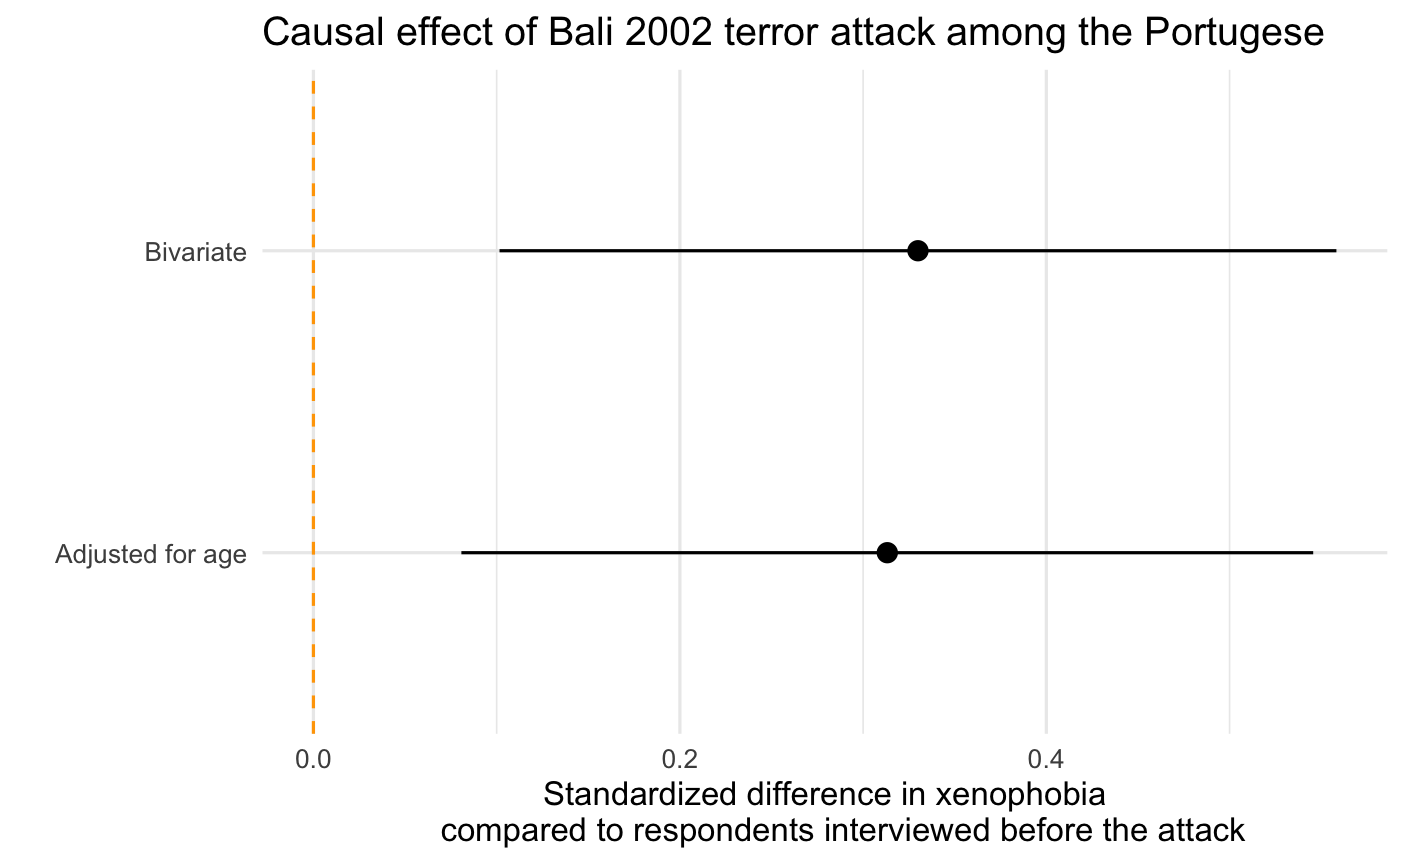
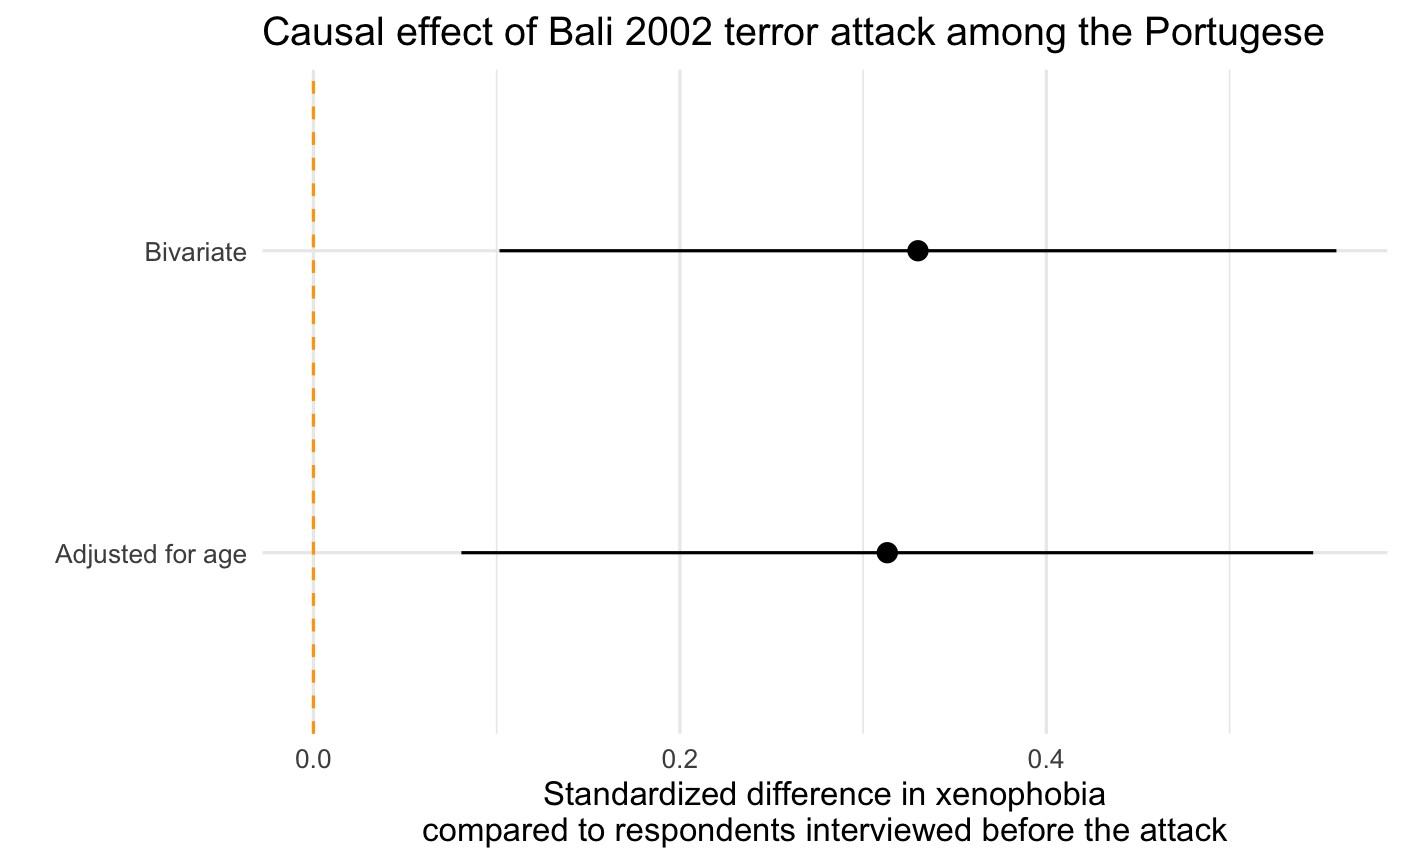
Updated Lecture 8

Changed region(s): [[0.3063, 0.9375, 0.8882, 1.0]]

diff --git a/static/Lectures/8-Multiple-OLS/8-Multiple-OLS.html b/static/Lectures/8-Multiple-OLS/8-Multiple-OLS.html
@@ -4,7 +4,7 @@
     <title>Multiple Regression &amp;    Fundamentals of Causal Inference</title>
     <meta charset="utf-8" />
     <meta name="author" content="Merlin Schaeffer  Department of Sociology" />
-    <meta name="date" content="2024-10-29" />
+    <meta name="date" content="2024-10-30" />
     <script src="libs/header-attrs/header-attrs.js"></script>
     <link href="libs/tile-view/tile-view.css" rel="stylesheet" />
     <script src="libs/tile-view/tile-view.js"></script>
@@ -29,7 +29,7 @@ class: center, middle, inverse, title-slide
 ### Merlin Schaeffer<br> Department of Sociology
 ]
 .date[
-### 2024-10-29
+### 2024-10-30
 ]
 
 ---
@@ -90,7 +90,8 @@ layout: true
 .center[versus]
 
 "[...] punishment often makes individuals more likely to commit crimes because of altered interactional structures, foreclosed legal opportunities and secondary deviance."
-&gt; -- .center[.backgrnote[*Source:* Sherman and Berk (1984)]]
+
+-- *Source:* Sherman and Berk (1984)
 
 .center[**Does punishment increase repeat domestic abuse?**]
 ]
@@ -164,13 +165,14 @@ layout: false
 ]
 .push-right[
 &lt;img src="8-Multiple-OLS_files/figure-html/DAG9-1.png" width="100%" style="display: block; margin: auto;" /&gt;
-]]
-
-**Reduced Form:** `\(\beta_{Z \rightarrow Y} = E[Y_{i}|Z_{i}=1]-E[Y_{i}|Z_{i}=0]; \text{call this }\rho.\)`
+]
+.font60[.]
+**Reduced Form (or ITT):** `\(\beta_{Z \rightarrow Y} = E[Y_{i}|Z_{i}=1]-E[Y_{i}|Z_{i}=0]; \text{call this }\rho.\)`
 
 **First Stage:** `\(\beta_{Z \rightarrow D} = E[D_{i}|Z_{i}=1]-E[D_{i}|Z_{i}=0]; \text{call this }\phi.\)`
 
 **IV Estimator of** `\(\lambda = \frac{\beta_{Z \rightarrow Y}}{\beta_{Z \rightarrow D}} = \frac{E[Y_{i}|Z_{i}=1]-E[Y_{i}|Z_{i}=0]}{E[D_{i}|Z_{i}=1]-E[D_{i}|Z_{i}=0]} = \frac{\rho}{\phi}.\)`
+]
 
 ---
 # IV .font60[to the rescue]
@@ -246,13 +248,15 @@ modelsummary(list("First stage" = first_stg),
 ]
 .push-right[
 &lt;img src="8-Multiple-OLS_files/figure-html/unnamed-chunk-7-1.png" width="100%" style="display: block; margin: auto;" /&gt;
-]]
+]
+.font60[.]
 
-**Reduced Form:** `\(\rho = 0.114\)` .backgrnote[According to Sherman and Berk (1984).]
+**Reduced Form (or ITT):** `\(\rho = 0.114\)` .backgrnote[According to Sherman and Berk (1984).]
 
-**First Stage:** `\(\phi = NA.\)`
+**First Stage:** `\(\phi = 0.786.\)`
 
-**IV Estimator of LATE:** `\(\lambda = \frac{\rho}{\phi} = \frac{E[Y_{i}|Z_{i}=1]-E[Y_{i}|Z_{i}=0]}{E[D_{i}|Z_{i}=1]-E[D_{i}|Z_{i}=0]} = \underline{\underline{NA}} \color{red}{|\text{Complier}_{i}=1}.\)`
+**IV Estimator of LATE:** `\(\lambda = \frac{\rho}{\phi} = \frac{E[Y_{i}|Z_{i}=1]-E[Y_{i}|Z_{i}=0]}{E[D_{i}|Z_{i}=1]-E[D_{i}|Z_{i}=0]} = \underline{\underline{0.145}} \color{red}{|\text{Complier}_{i}=1}.\)`
+]
 
 ---
 class: inverse middle center
@@ -305,7 +309,10 @@ layout: true
 .right-column[
 &lt;img src="./img/Joscha2.png" width="100%" style="display: block; margin: auto;" /&gt;
 .center[.backgrnote[*Source:* Legewie (2013)]]
-]
+
+.content-box-green[.center[
+What are the two key assumptions that ensure the comparability of treatment and control groups?
+]]]
 
 ---
 
@@ -411,12 +418,11 @@ toydat &lt;- tibble(
 toydat &lt;- toydat %&gt;% 
   mutate( # Day of interview: Age + random.
     int_day = (-0.1*age) + rnorm(n = 500, mean = 0, sd = 1),
-    bali = case_when( # Bali: After mean int_day (survey period).
-      int_day &lt; mean(int_day) ~ 0,
-      int_day &gt;= mean(int_day) ~ 1))
+    bali = case_when(int_day &lt; mean(int_day) ~ 0, # Not Bali: Before mean int_day
+      int_day &gt;= mean(int_day) ~ 1)) # Bali: After mean int_day.
 
 ols &lt;- lm_robust(bali ~ age, data = toydat)
-modelsummary(list("Day of Int." = ols), stars = TRUE,
+modelsummary(list("Day of Interview" = ols), stars = TRUE,
              gof_map = c("nobs", "r.squared"), output = "kableExtra")
 ```
 
@@ -424,7 +430,7 @@ modelsummary(list("Day of Int." = ols), stars = TRUE,
  &lt;thead&gt;
   &lt;tr&gt;
    &lt;th style="text-align:left;"&gt;   &lt;/th&gt;
-   &lt;th style="text-align:center;"&gt; &amp;amp;nbsp;Day of Int. &lt;/th&gt;
+   &lt;th style="text-align:center;"&gt; &amp;amp;nbsp;Day of Interview &lt;/th&gt;
   &lt;/tr&gt;
  &lt;/thead&gt;
 &lt;tbody&gt;
@@ -471,9 +477,8 @@ modelsummary(list("Day of Int." = ols), stars = TRUE,
 # I define: Xenophobia is a linear function of:
 # exposure to Bali, age, and a random part.
 toydat &lt;- toydat %&gt;%
-  mutate(
-*   xeno = (1 * bali) + (0.3 * age) +
-      rnorm(n = 500, mean = 0, sd = 1))
+* mutate(xeno = (1 * bali) + (0.3 * age) +
+        rnorm(n = 500, mean = 0, sd = 1))
 ```
 ]
 .push-right[
@@ -908,7 +913,7 @@ What is `e_bali`?
 
 .right-column[
 .center[
-**Step 3: Regress `\(e_{D}\)` on `\(e_{C}\)`.**
+**Step 3: Regress `\(e_{Y}\)` on `\(e_{D}\)`.**
 ]
 .push-left[
 .font70[
@@ -918,7 +923,8 @@ What is `e_bali`?
 ols_e &lt;- lm_robust(e_xeno ~ e_bali,
                     data = toydat)
 
-modelsummary(list("Resid. Xeno" = ols_e), 
+modelsummary(list(
+              "Resid. OLS" = ols_e), 
             stars = TRUE,
             gof_map = c("nobs", "r.squared"), 
             output = "kableExtra")
@@ -928,7 +934,7 @@ modelsummary(list("Resid. Xeno" = ols_e),
  &lt;thead&gt;
   &lt;tr&gt;
    &lt;th style="text-align:left;"&gt;   &lt;/th&gt;
-   &lt;th style="text-align:center;"&gt; &amp;amp;nbsp;Resid. Xeno &lt;/th&gt;
+   &lt;th style="text-align:center;"&gt; Resid. OLS &lt;/th&gt;
   &lt;/tr&gt;
  &lt;/thead&gt;
 &lt;tbody&gt;
@@ -1035,35 +1041,6 @@ class: clear
 
 - If **_observed_** confounders are imbalanced, *maybe more is broken than what we have observed?*
 ]]
-
----
-# Pre- versus post-treatment controls
-
-.center[Time of measurement helps to decide whether a variable is a confounder or a mechanism/mediator.&lt;br&gt; But generally, you can only rely on sound logical reasoning. .alert[Don't control for mechanisms/mediators.]]
-
-.push-left[.content-box-green[
-.center[**Pre-treatment**]
-&lt;img src="8-Multiple-OLS_files/figure-html/unnamed-chunk-35-1.png" width="40%" style="display: block; margin: auto;" /&gt;
-
-- *Potential confounders*: Variables that are **_causally prior to the treatment_**.
-]]
-
-.push-left[.content-box-red[
-.center[**Post-treatment**]
-&lt;img src="8-Multiple-OLS_files/figure-html/DAG_mediator-1.png" width="40%" style="display: block; margin: auto;" /&gt;
-- *Potential mechanisms/mediators*: Variables that are potentially **_a result of the treatment_**.
-]]
-
----
-# Group work
-
-.content-box-green[
-1. Download the "Sesame-variables.doc" file from Absalon. Recall that our outcome was "postlet", the randomized intervention was "encouraged", and the treatment of interest was "watched".
-
-2. Identify variables that should ideally be balanced, and if they are not, should be controlled for as pre-treatment confounders.
-
-3. Identify variables that we should definitely not control for because they are post-treatment mechanisms or even alternative measures of the outcome we are interested in.
-]
 
 ---
 # Back to Bali .font70[The Portuguese subsample]
@@ -1242,25 +1219,24 @@ modelsummary(list("Biv. OLS" = ols_pt_bi, "Mult. OLS" = ols_pt_mult), stars = TR
 .panel[.panel-name[R code]
 
 ``` r
-bind_rows(ols_pt_bi %&gt;% tidy(),
-          ols_pt_mult %&gt;% tidy(),
-          .id = "model") %&gt;%
-  filter(term == "treatAfter Bali") %&gt;%
-  mutate(model = case_when(
+bind_rows(ols_pt_bi %&gt;% tidy(),  # Combine the tidy output of two models 
+          ols_pt_mult %&gt;% tidy(),  # ...
+          .id = "model") %&gt;%  # Add an identifier for each model
+  filter(term == "treatAfter Bali") %&gt;%  # Select the row corresponding to the treatment effect
+  mutate(model = case_when(  # Change the model identifier to more informative labels
     model == 1 ~ "Bivariate",
     model == 2 ~ "Adjusted for age")) %&gt;%
-  ggplot(aes(y = estimate, x = model, 
-             ymin = conf.low, ymax = conf.high)) +
-  geom_hline(yintercept = 0, 
-             color = "orange", lty = "dashed") +
-  geom_pointrange() +
-  coord_flip() +
+  ggplot(aes(y = estimate, x = model,  # Set up the plot with estimate on the y-axis and model on the x-axis
+             ymin = conf.low, ymax = conf.high)) +  # Specify the confidence intervals
+  geom_hline(yintercept = 0,  # Add a horizontal line at zero
+             color = "orange", lty = "dashed") +  # ...
+  geom_pointrange() +  # Add points with confidence intervals
+  coord_flip() +  # Flip the coordinates
   labs(
-    title = "Causal effect of Bali 2002 terror attack among the Portugese",
-    y = "Standardized difference in xenophobia
-    compared to respondents interviewed before the attack",
-    x = "") +
-  theme_minimal()
+    title = "Causal effect of Bali 2002 terror attack among the Portugese",  # Add a title
+    y = "Standardized difference in xenophobia\ncompared to respondents interviewed before the attack",  # Add a y-axis label
+    x = "") +  # Remove the x-axis label
+  theme_minimal()  # Use a minimal theme
 ```
 ]]]
 
@@ -1270,7 +1246,7 @@ class: clear
 # Learning goal 1 .font60[Terror attacks can increase xenophobia]
 
 .right-column[
-&lt;img src="./img/Joscha4.png" width="100%" style="display: block; margin: auto;" /&gt;
+&lt;img src="./img/Joscha4.png" width="60%" style="display: block; margin: auto;" /&gt;
 .center[.backgrnote[*Source:* Legewie (2013)]]
 ]
 
